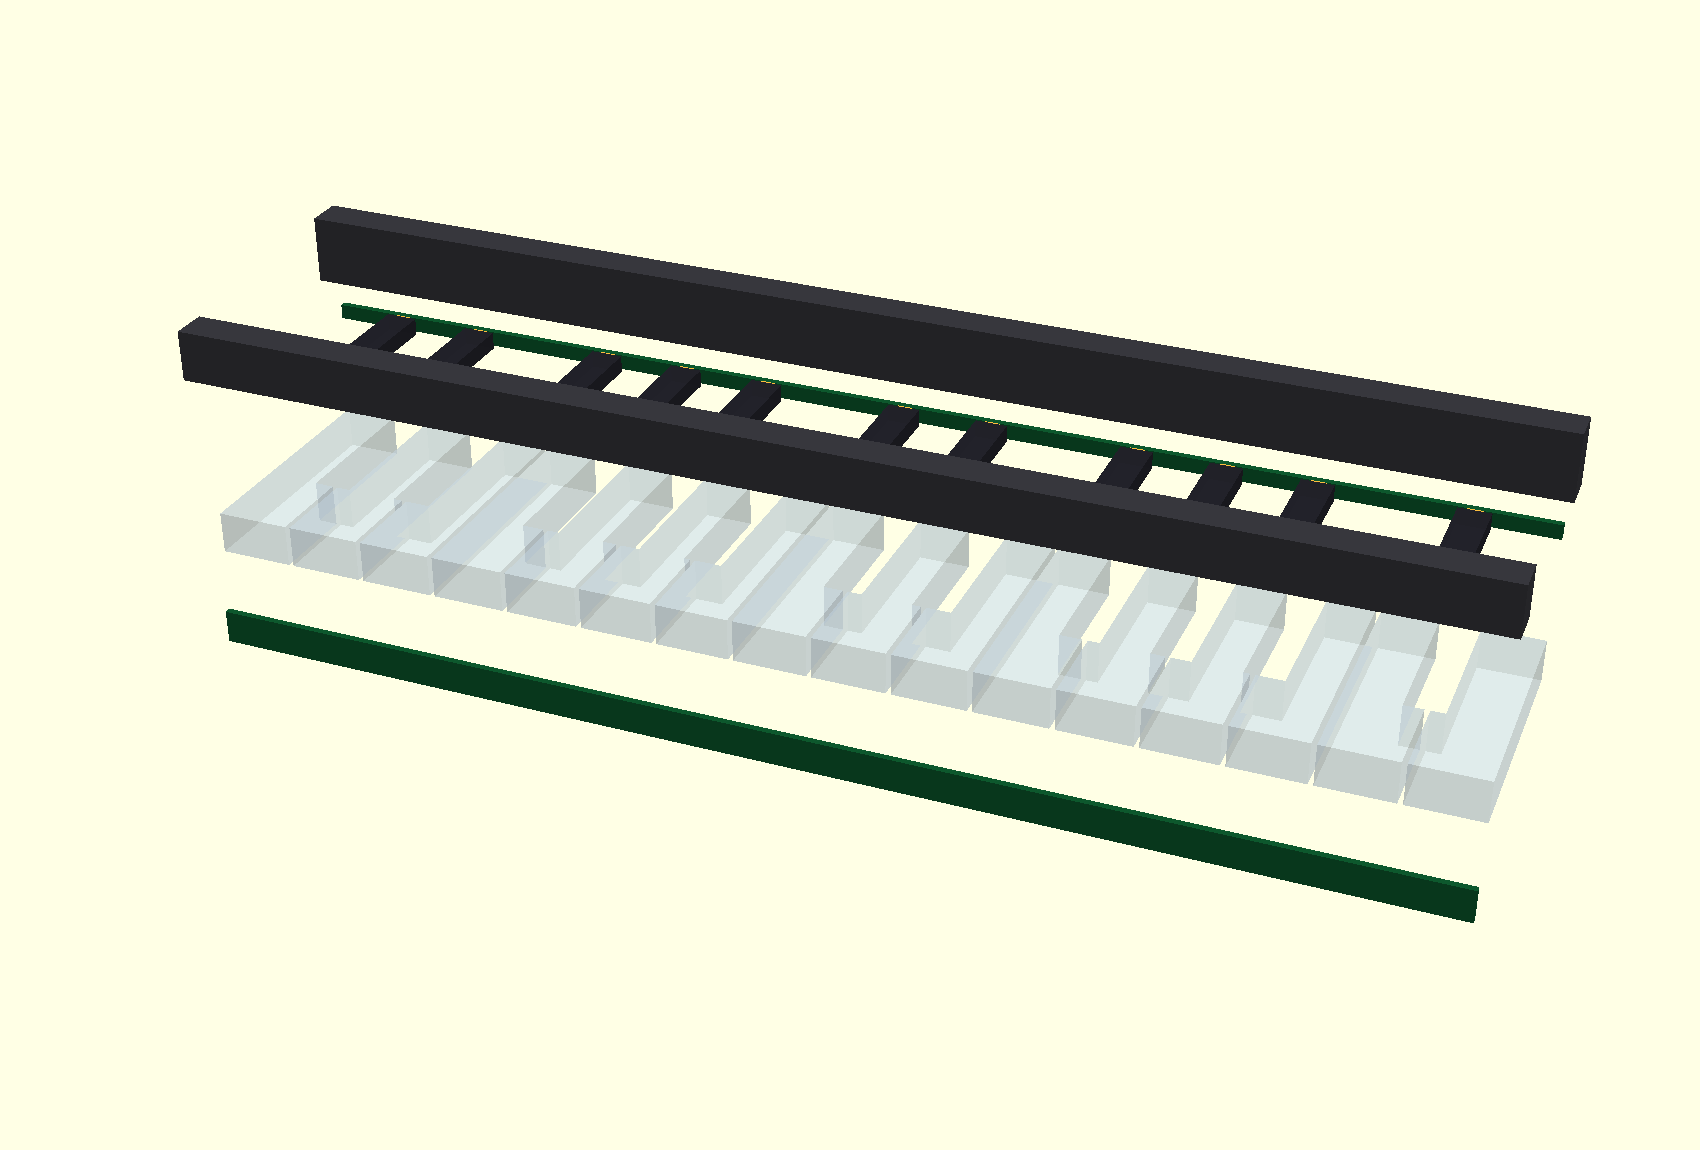
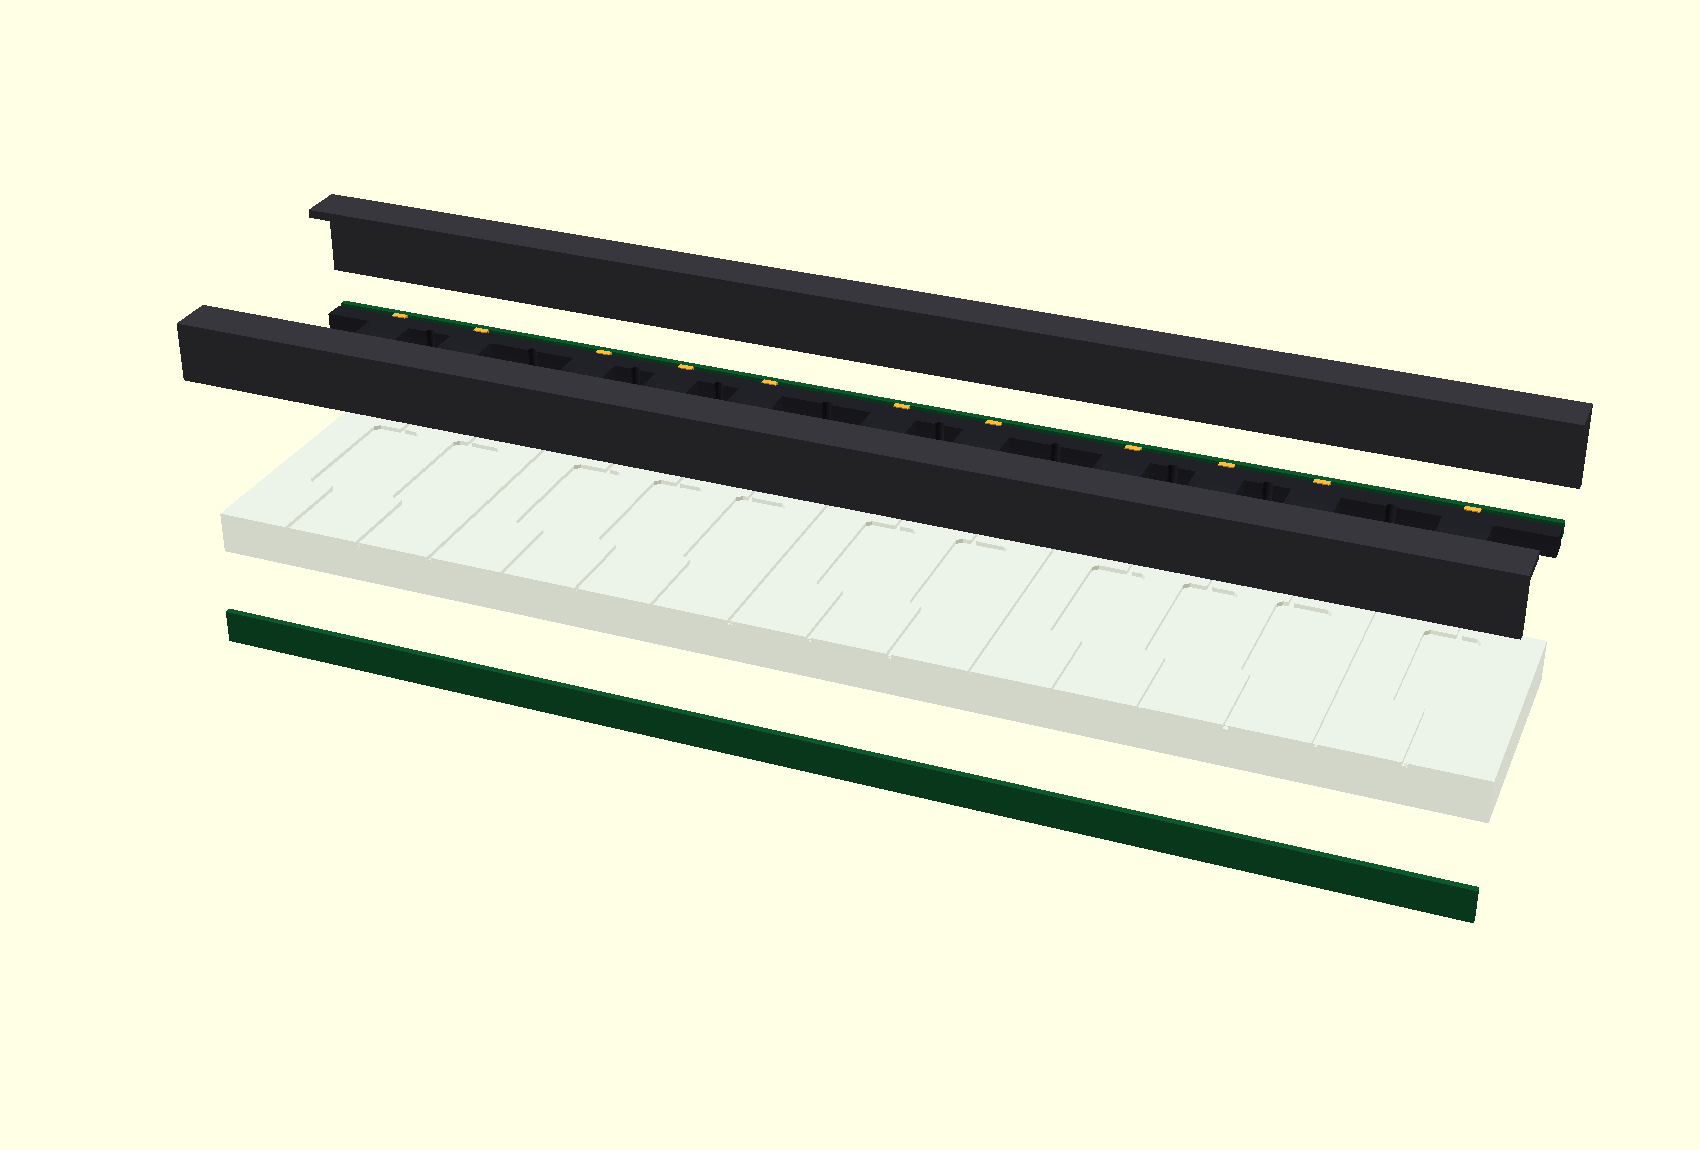
Méca : rendus régénérés, images périmées supprimées
Régénérés (le modèle avait bougé depuis) : clavier_plan, clavier_top,
clavier_pcb, clavier_explode, plaque_noires, implantation_modeste.

Supprimés parce que FAUX, et non simplement vieux :
- facade_*.png (5) — viennent de facade.scad, dont l'implantation est périmée :
  noires à espacement régulier (ce n'est pas un clavier de piano), 5 encodeurs,
  écran 4,0". Remplacée par implantation.scad ;
- cellule.png, cellule_ito.png — concept de l'électrode dans une poche fraisée
  avec membrane de 1-1,5 mm, abandonné : retour au bloc plein et électrode sur
  une plaque avant distincte. Remplacé par coupe_cellule.scad.

Les deux .scad sont conservés et signalés comme périmés en tête de README —
facade.scad reste le seul modèle qui esquisse le boîtier.

Une image fausse coûte plus cher qu'une image absente.

Changed region(s): [[0.1247, 0.3348, 0.9353, 0.7], [0.0935, 0.1522, 0.9353, 0.487]]

diff --git a/mechanical/README.md b/mechanical/README.md
@@ -1,4 +1,19 @@
-# Mécanique — modèle 3D de la façade (variante plexi capacitive)
+# Mécanique — modèles paramétriques
+
+> ## ⚠ Deux fichiers sont PÉRIMÉS, gardés pour mémoire
+> - **`facade.scad`** — implantation d'origine. Noires à espacement **régulier**
+>   (ce n'est pas un clavier de piano), 5 encodeurs, écran 4,0″. Remplacé par
+>   **`implantation.scad`**. Reste utile pour une seule chose : c'est le seul
+>   modèle qui esquisse le **boîtier** (`show_box`).
+> - **`cellule_plexi.scad`** — électrode dans une **poche fraisée** du plexi épais,
+>   membrane de 1–1,5 mm. Concept **abandonné** : la pollution lumineuse mesurée
+>   acceptable a permis de revenir au bloc plein, et l'électrode est passée sur une
+>   plaque avant distincte. Remplacé par **`coupe_cellule.scad`**.
+>
+> Leurs rendus ont été supprimés du dépôt : une image fausse coûte plus cher
+> qu'une image absente.
+
+# Modèle d'origine (périmé) — façade plexi capacitive
 
 Modèle **paramétrique OpenSCAD** de l'empilement façade :
 **plexi** (couvercle) + **grille espaceur** (puits de lumière) + **PCB**
